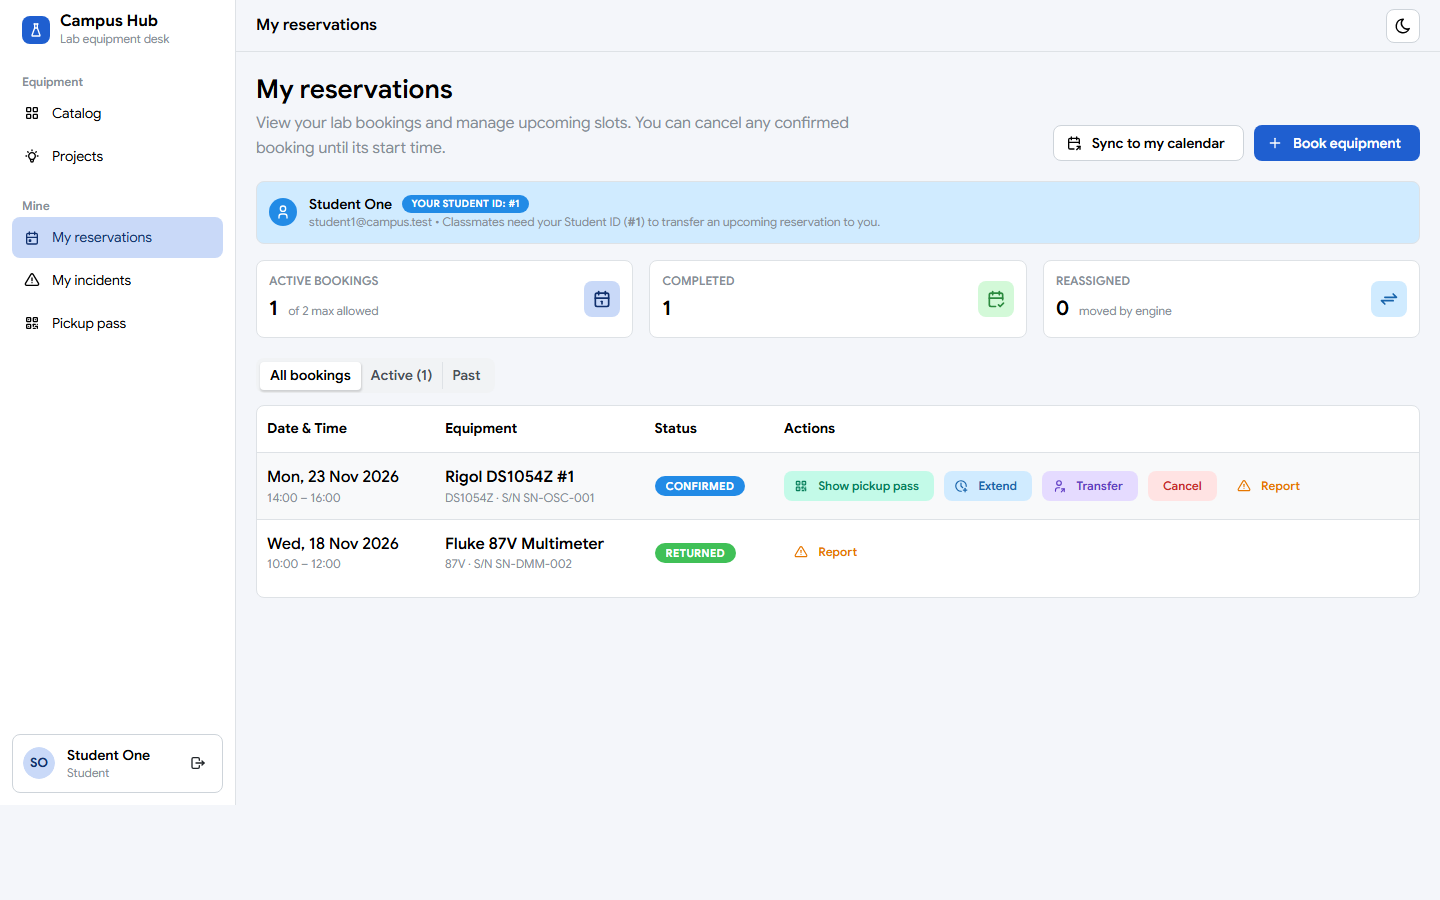
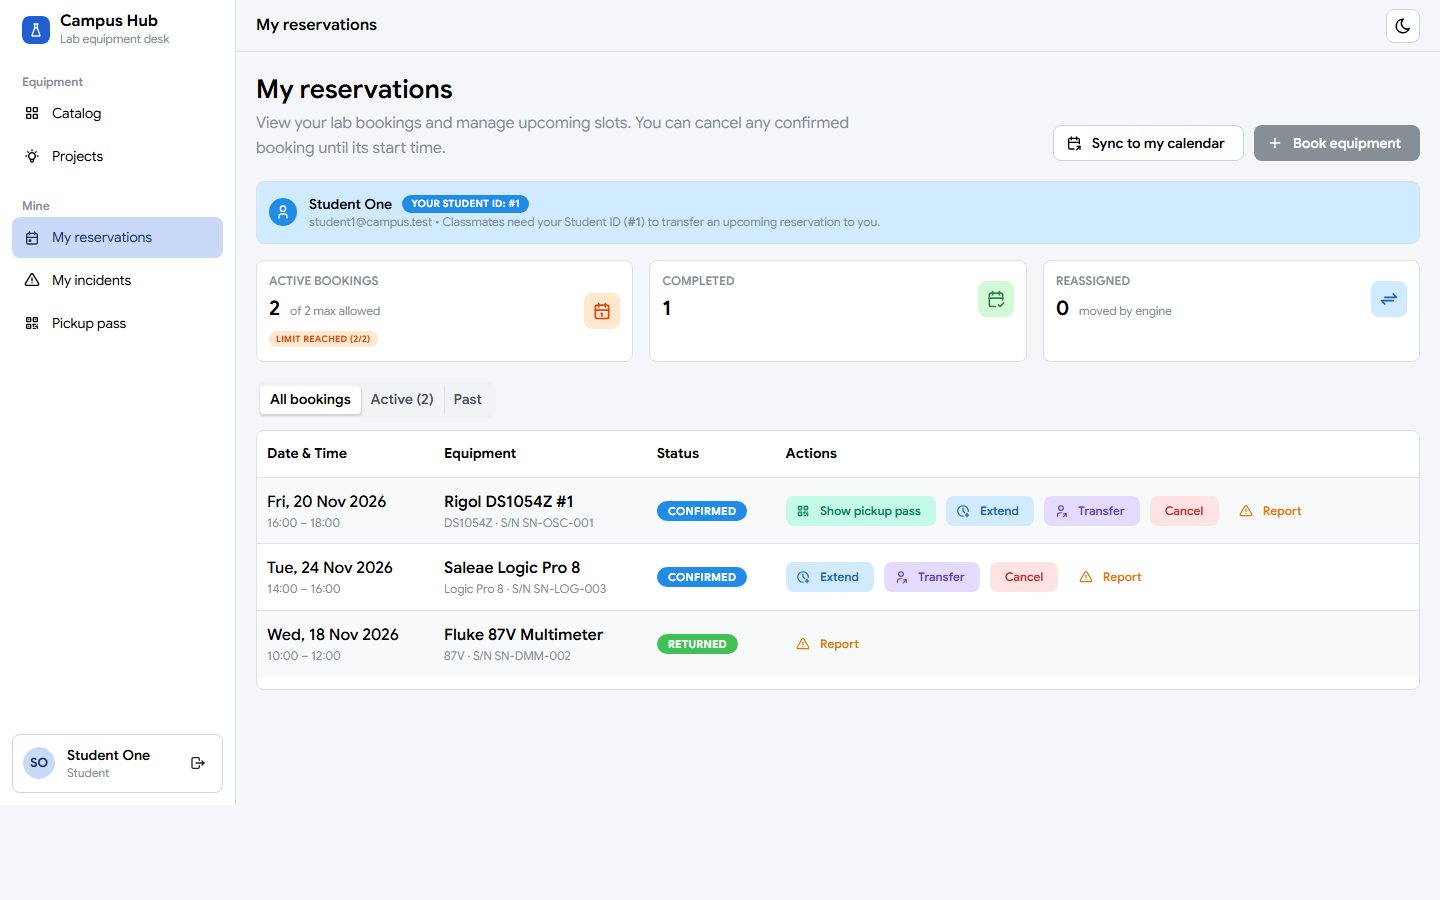
fix(reservation): show pickup pass button only on today's CONFIRMED bookings and refresh screenshots (#328)

diff --git a/frontend/src/pages/MyReservationsPage.tsx b/frontend/src/pages/MyReservationsPage.tsx
@@ -375,8 +375,16 @@ export default function MyReservationsPage() {
     {
       header: 'Actions',
       render: (r) => {
-        const hasStartedInBucharest = nowInBucharest() >= parseCampusLocalDateTime(r.startTime)
-        const canShowPickupPass = r.status === 'CONFIRMED'
+        const now = nowInBucharest()
+        const start = parseCampusLocalDateTime(r.startTime)
+        const hasStartedInBucharest = now >= start
+        // Desk check-out only opens near the slot (start - 15 min .. start + 30 min in
+        // ReservationService.checkOutReservation), so only show the pickup pass on today's CONFIRMED rows.
+        const startsTodayInBucharest =
+          start.getFullYear() === now.getFullYear() &&
+          start.getMonth() === now.getMonth() &&
+          start.getDate() === now.getDate()
+        const canShowPickupPass = r.status === 'CONFIRMED' && startsTodayInBucharest
         const canCancel = r.status === 'CONFIRMED' && !hasStartedInBucharest
         const canExtend = r.status === 'CONFIRMED' || r.status === 'CHECKED_OUT'
         const canTransfer = r.status === 'CONFIRMED' && !hasStartedInBucharest

diff --git a/documentation/Murariu_Calin/48-my-reservations-pickup-pass-button.md b/documentation/Murariu_Calin/48-my-reservations-pickup-pass-button.md
@@ -2,7 +2,7 @@
 
 ## Part 1: In simple terms
 
-When a student arrives at the lab desk to pick up a confirmed booking, they need to show their rotating 6-digit / QR pickup pass (`/pickup-pass`, built in #284 and #318). Adding a **"Show pickup pass"** button directly on every `CONFIRMED` reservation row in **My reservations** gives students a one-click shortcut straight from their booking list without having to hunt for it in the sidebar.
+When a student arrives at the lab desk to pick up a confirmed booking, they need to show their rotating 6-digit / QR pickup pass (`/pickup-pass`, built in #284 and #318). Adding a **"Show pickup pass"** button directly on **today's** `CONFIRMED` reservation rows in **My reservations** gives students a one-click shortcut on the day of pickup without tempting them to show a desk code for bookings days in the future (where check-out would be refused).
 
 ---
 
@@ -10,5 +10,5 @@ When a student arrives at the lab desk to pick up a confirmed booking, they need
 
 | File | Change |
 |---|---|
-| `frontend/src/pages/MyReservationsPage.tsx` | Added a `Show pickup pass` `Button` (`component={Link}`, `to="/pickup-pass"`, `variant="light"`, `color="teal"`, `IconQrcode`) rendered on rows where `r.status === 'CONFIRMED'`. |
-| Verification | `cd frontend && npm run lint && npm run build` passes cleanly with zero ESLint or TypeScript errors. |
+| `frontend/src/pages/MyReservationsPage.tsx` | Added a `Show pickup pass` `Button` (`component={Link}`, `to="/pickup-pass"`, `variant="light"`, `color="teal"`, `IconQrcode`) rendered only when `r.status === 'CONFIRMED'` **and** the booking starts **today** in `Europe/Bucharest` (comparing `parseCampusLocalDateTime(r.startTime)` against `nowInBucharest()`, matching the desk check-out rule in `ReservationService.checkOutReservation`: `start - 15 min .. start + 30 min`). Switched the row actions `Group` to `wrap="wrap"` so the 5 buttons wrap cleanly on narrow screens. |
+| Verification | `cd frontend && npm run lint && npm run build` passes cleanly with zero ESLint or TypeScript errors; verified visually on desktop (`1440px`) and narrow (`390px`) with today's `CONFIRMED` row (button shown), a future-day `CONFIRMED` row (button hidden), and a `RETURNED` row (button hidden). |
